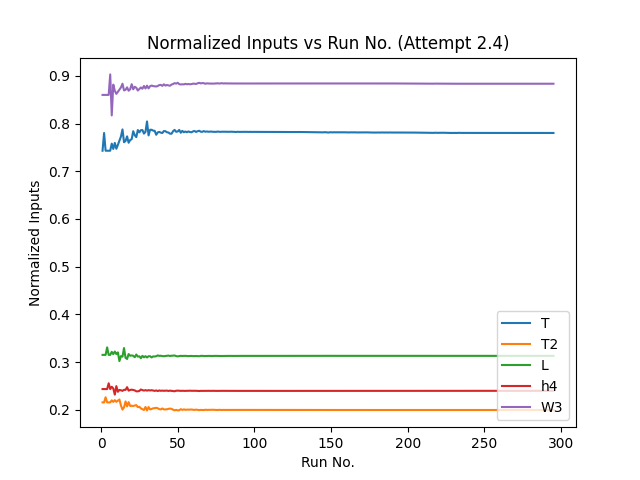
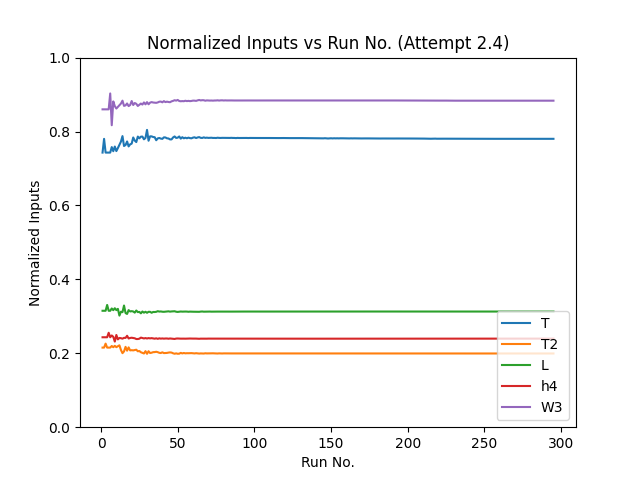
Optimization Updates
- Regenerated plots for attempt 2.4
- Best inputs bar chart for attempt 3.1
- Revisions to scripts

diff --git a/optimization/graph_run_data.py b/optimization/graph_run_data.py
@@ -45,6 +45,7 @@ with open(f'optimization/attempt_{attempt}/all_metadata.txt', 'r') as f:
     fork_script_metadata = dict(zip([x.strip() for x in metadata[fork_script_ind].split(',')], [float(x) for x in metadata[fork_script_ind+1].split(',')]))
     print(fork_script_metadata)
     nDATA = fork_script_metadata['nDATA']
+    VERSION = float(fork_script_metadata['VERSION'])
 print()
 
 params = params_str.split(',')
@@ -70,16 +71,23 @@ indata = data[:, 0:len(params)]
 ################
 
 # plot normalized inputs
+
+# Set your specific colors for each parameter
+colors = ['#1f77b4', 'green', 'red', 'purple', 'brown']
+
+# Plot normalized inputs
+fig, ax = plt.subplots()
 x = np.arange(1, len(indata)+1, 1)
-plt.plot(x, indata, label=params)
-plt.xlabel('Run No.')
-plt.ylabel('Normalized Inputs')
-plt.title(f'Normalized Inputs vs Run No. (Attempt {attempt})')
-plt.legend(loc='lower right')
-plt.ylim(0, 1)
-#plt.show()
+for i in range(len(params)):
+    ax.plot(x, indata[:, i], label=params[i], color=colors[i])
+ax.set_xlabel('Run No.')
+ax.set_ylabel('Normalized Inputs')
+ax.set_title(f'Normalized Inputs (Attempt {attempt})')
+ax.set_ylim(0, 1)
+ax.legend()
 plt.savefig(f'optimization/attempt_{attempt}/{attempt}_normalized_inputs.png')
 plt.close()
+
 
 # plot score in scatter plot
 yvar = "Score"
@@ -115,15 +123,16 @@ plt.savefig(f'optimization/attempt_{attempt}/{attempt}_{yvar.lower()}.png')
 plt.close()
 
 # plot buckling in scatter plot
-yvar = "Buckling"
-x = np.arange(1, len(data)+1, 1)
-plt.scatter(x, data[:, 10], s=5)
-plt.xlabel('Run No.')
-plt.ylabel(f'{yvar}')
-plt.title(f'{yvar} vs Run No. (Attempt {attempt})')
-#plt.show()
-plt.savefig(f'optimization/attempt_{attempt}/{attempt}_{yvar.lower()}.png')
-plt.close()
+if VERSION >= 3.0:
+    yvar = "Buckling"
+    x = np.arange(1, len(data)+1, 1)
+    plt.scatter(x, data[:, 10], s=5)
+    plt.xlabel('Run No.')
+    plt.ylabel(f'{yvar}')
+    plt.title(f'{yvar} vs Run No. (Attempt {attempt})')
+    #plt.show()
+    plt.savefig(f'optimization/attempt_{attempt}/{attempt}_{yvar.lower()}.png')
+    plt.close()
 
 ##### FIND BEST SCORES #####
 
@@ -172,23 +181,21 @@ plt.close()
 # Convert to actual inputs
 # print(normalize(np.array([1.0, 0.25, 0.308, 0.25, 0.333, 0.5]), bounds=var_bounds, inverse=True))
 
-# plot normalized inputs on bar graph with a bar extending from the lower bound to the best value, and one extending from the best to the upper bound (superimposed on each other). Please label the bounds and the best inputs with the actual values. Remember tat best_norm_inputs only has normalized inputs, they need to be converted to actual inputs
-plt.figure(figsize=(10, 5))
+# plot normalized inputs on bar graph with a bar extending from the lower bound to the best value, and one extending from the best to the upper bound (superimposed on each other). Use subplots
+fig, ax = plt.subplots()
 x = np.arange(1, len(params)+1, 1)
-BEST_INPUT_NORM = data[best_score_ind, :len(params)]
-BEST_INPUT = normalize(BEST_INPUT_NORM, bounds=var_bounds, inverse=True)
-lower_bounds = var_bounds[0]
-upper_bounds = var_bounds[1]
-width = 0.3
-plt.bar(x, lower_bounds, width, label='Lower Bounds', color='r')
-plt.bar(x, upper_bounds, width, label='Upper Bounds', color='b')
-plt.bar(x, BEST_INPUT_NORM, width, label='Best Inputs', color='g')
-plt.xlabel('Parameter')
-plt.ylabel('Actual Input')
-plt.title(f'Actual Inputs with Bounds and Best Inputs (Attempt {attempt})')
-plt.xticks(x, params)
-plt.legend(loc='upper right')
-plt.show()
+best_inputs_norm = indata[best_score_ind, :]
+width = 0.35
+ax.bar(x+width/2, 1, width, color='gray', label='')
+ax.bar(x+width/2, best_inputs_norm, width, color='g', label='')
+ax.set_xlabel('Parameter')
+ax.set_ylabel('Normalized Inputs')
+ax.set_title(f'Best Inputs (Attempt {attempt})')
+ax.set_xticks(x + width / 2)
+ax.set_xticklabels(params)
+ax.legend()
+plt.savefig(f'optimization/attempt_{attempt}/{attempt}_best_inputs_plot.png')
+plt.close()
 
 
 

diff --git a/optimization/Abaqus_Fork_Script.py b/optimization/Abaqus_Fork_Script.py
@@ -83,7 +83,7 @@ session.journalOptions.setValues(replayGeometry=COORDINATE,recoverGeometry=COORD
 ##### CHANGE SCRIPT PARAMETERS HERE #####
 #########################################
 
-VERSION = 2.1
+VERSION = 3.1
 RUNJOB = True
 cutTips = True
 generateXSupport = False
@@ -136,7 +136,7 @@ for loadn in range(1, 4): # Loads 1, 2, and 3
 		Wt2 = 0.177 * W12 # 2 inner tines
 		Ws = (W12 - 2*Wt1 - 2*Wt2) / 3 # 3 slots
 		W3 = varValues[4] * W
-		W4 = 0.48 * W
+		W4 = 1.7 * W3 # 0.48 * W
 		W21 = 0.94 * (W-W3) + W3
 		l21 = 0.85 * L2
 		W22 = 0.56 * (W-W3) + W3
@@ -990,7 +990,7 @@ for loadn in range(1, 4): # Loads 1, 2, and 3
 				modelPrint=OFF, contactPrint=OFF, historyPrint=OFF, 
 				userSubroutine='', 
 				scratch='', multiprocessingMode=DEFAULT, numCpus=4, numDomains=4)
-		job=mdb.jobs[ModelName]
+		#job=mdb.jobs[ModelName]
 
 		# delete lock file, which for some reason tends to hang around, if it exists
 		if os.access('%s.lck'%ModelName,os.F_OK):
@@ -1022,6 +1022,7 @@ for loadn in range(1, 4): # Loads 1, 2, and 3
 		# Query Surface Area
 		p = mdb.models[ModelName].parts['Fork-cm-SA']
 		SA = p.getArea(p.faces)
+		print('Surface Area = %1.7f' % (SA))
 		
 		# Query Volume
 		a = mdb.models[ModelName].rootAssembly
@@ -1084,4 +1085,4 @@ with open('fork_script_metadata.txt', 'w') as fileObj:
 	fileObj.write('%1.1f, %1.1f, %1.2f, %1.3f, %1.1f, %1.1f, %d \n\n' % (VERSION, yield_stress, safety_factor, stress_threshold, F1, F2, 3)) 
 	
 print 'DONE!!'
-print('SCORE = %1.3f' % (score)
+print('SCORE = %1.3f' % (score))
